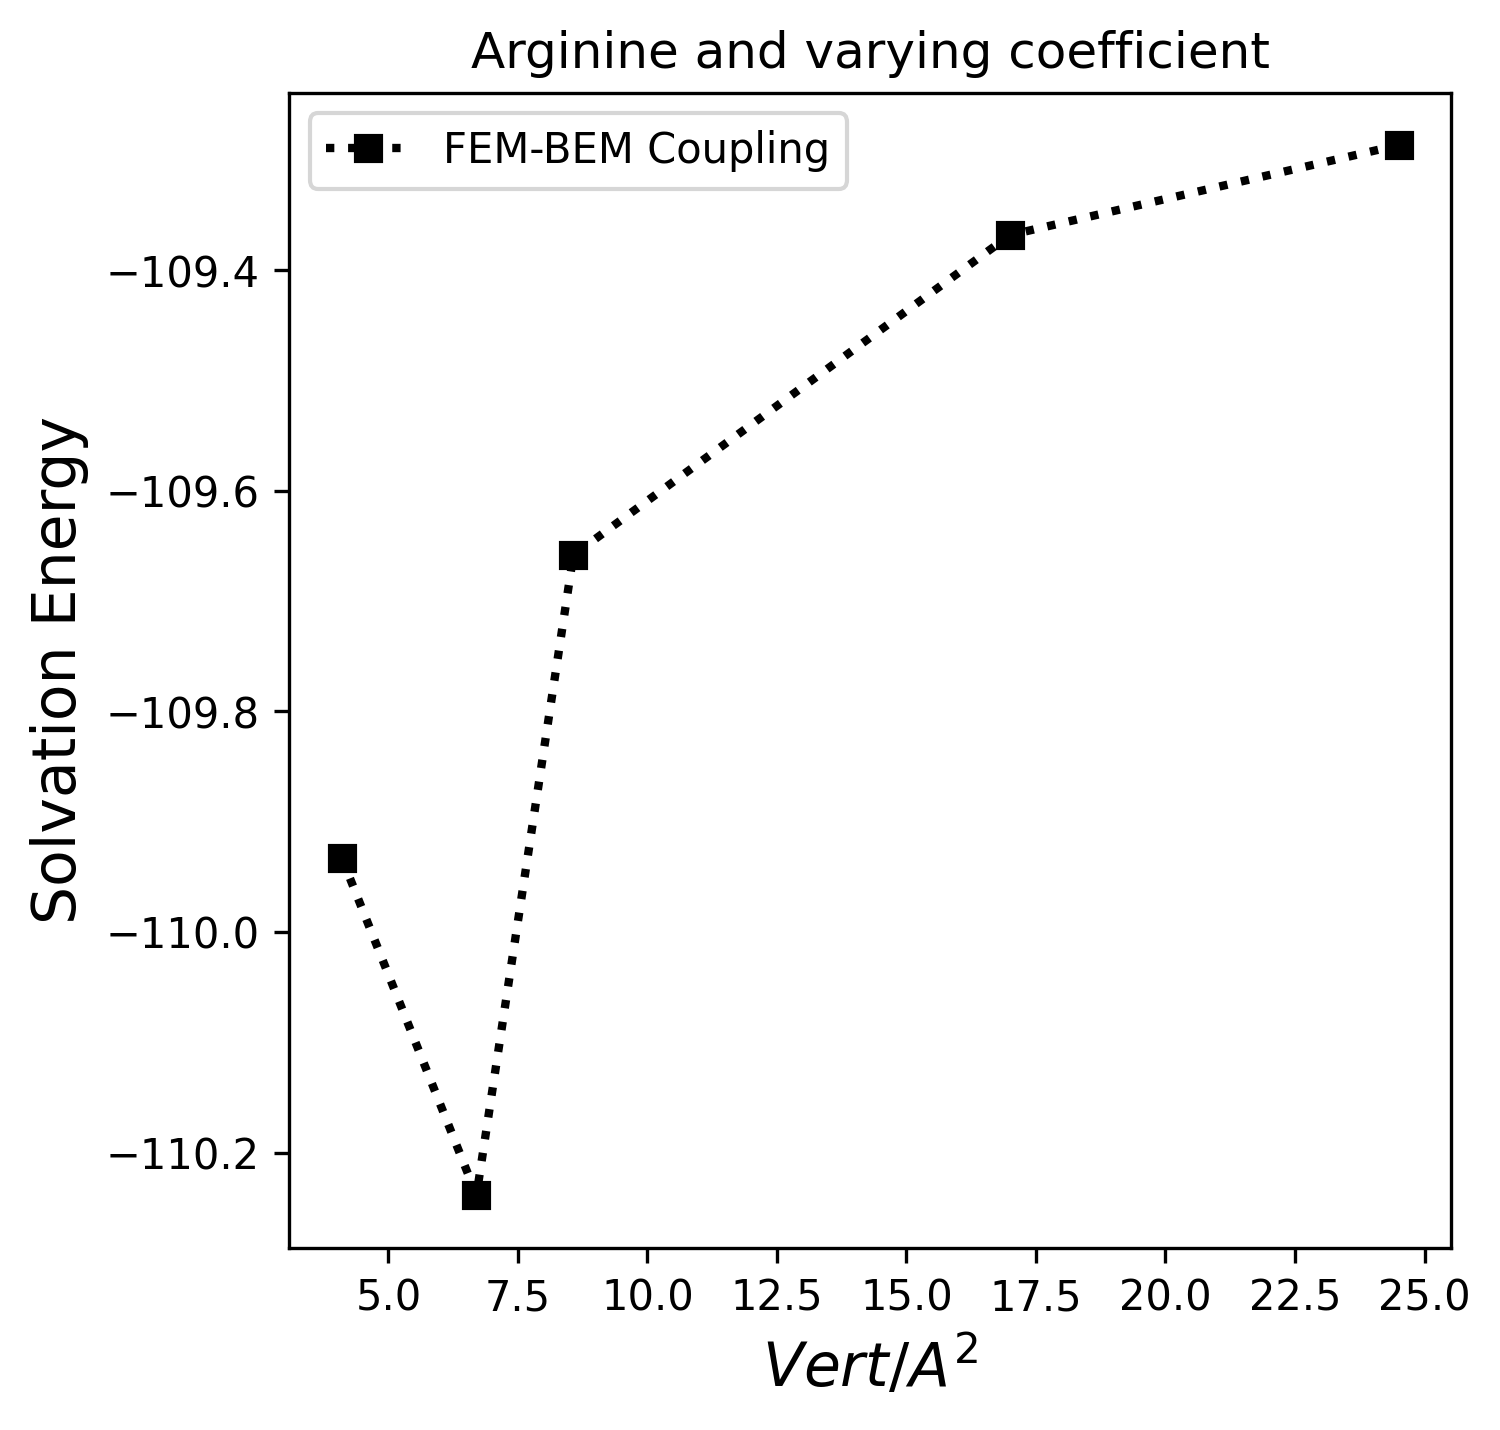
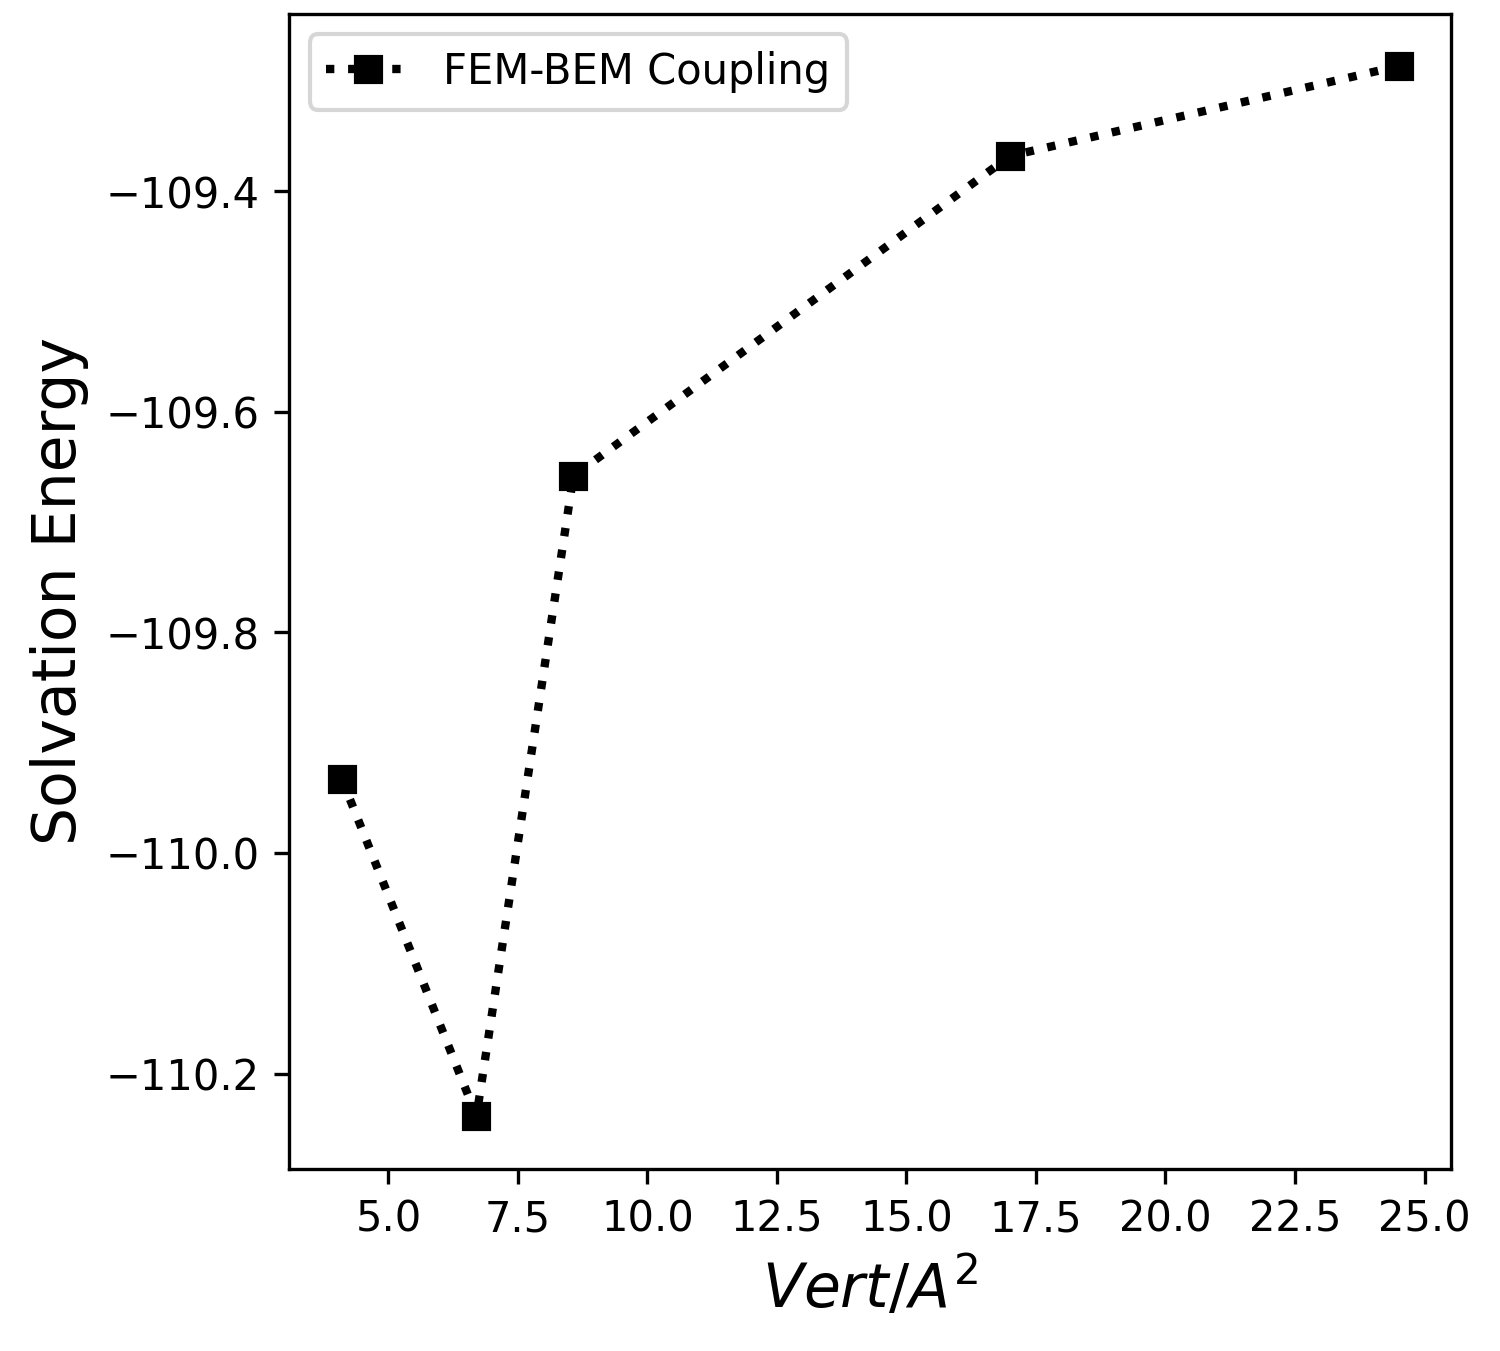
Replies for the comments

diff --git a/results.tex b/results.tex
@@ -37,8 +37,8 @@ The error in Figure \ref{fig:error_sphere} decays linearly with the surface area
 
 \begin{figure}
   \centering
-  \includegraphics[width=0.6\linewidth]{DolfinX_Sphere_const_coeff_error.png}
-  \caption{Error for the Kirkwood sphere. \textcolor{red}{Chris: I would remove the titles from the figs (applies to other figs)}}
+  \includegraphics[width=0.5\linewidth]{DolfinX_Sphere_const_coeff_error.png}
+  \caption{Error for the Kirkwood sphere.}
   \label{fig:error_sphere}
 \end{figure}
 
@@ -51,12 +51,12 @@ These densities correspond to a grid scale parameter in Nanoshaper equal to 1.6,
 The surface meshes were inputs to our purely BEM solver and to create the FEM mesh with pyGAMer,~\cite{lee2020open} which invoked TetGen\cite{hang2015tetgen} with a quality parameter (radius-edge ratio) of 1.0.
 
 The solvation energy computed with the two schemes is presented by Figure \ref{fig:arg_constant_energy}, which, as expected, converges to a similar answer as the mesh is refined.
-Then, Figure \ref{fig:arg2_constant_time_iter} compares the iteration count and time-to-solution. The left plot shows that using only BEM outperforms the coupled FEM-BEM approach in terms of iterations count. However, if we look at the total time that solvers take to obtain the solution, we can see the advantage of using the FEM-BEM coupling. The higher computational cost is caused by the need of using a hypersingular operator in the BEM formulation. \textcolor{red}{Chris: I though BEM-BEM outperformed FEM-BEM in total time. Am I wrong there?}
+Then, Figure \ref{fig:arg2_constant_time_iter} compares the iteration count and time-to-solution. The left plot shows that using only BEM outperforms the coupled FEM-BEM approach in terms of iterations count. However, if we look at the total time that solvers take to obtain the solution, we can see the advantage of using the FEM-BEM coupling. The higher computational cost is caused by the need of using a hypersingular operator in the BEM formulation. \textcolor{red}{Chris: I thought BEM-BEM outperformed FEM-BEM in total time. Am I wrong there?} \textcolor{blue}{Michal: Not for this formulation of BEM-BEM since we have hypersingular operator. But you can see that for denser meshes we should outperform it.} 
 
 
 \begin{figure}
 \centering
-   \includegraphics[width=0.47\linewidth]{DolfinX_Arginine2_const_coeff_error.png}
+   \includegraphics[width=0.5\linewidth]{DolfinX_Arginine2_const_coeff_error.png}
 %   \includegraphics[width=0.47\linewidth]{DolfinX_Arginine_const_coeff_error_11.png}
 \caption{Solvation energy for arginine with a constant permittivity. %(left - Arginine2 and right - Arginine)
 %maybe we could also add a "error" wrt extrapolation, or a plot with energy for each mesh?
@@ -143,8 +143,7 @@ We chose APBS because it provides an easy interface to control dielectric maps, 
 
 Table \ref{table:arg_variable} shows a comparison of solvation energy computed with APBS and our FEM-BEM coupling approach. We can see that they are both converging to equivalent values, where the finest meshes agree up to 0.5\% (0.5 kcal/mol). The coarsest meshes used in both cases are within the recommended densities for accurate solvation energy simulations with constant permittivity. For example, a finite difference mesh with $h$=0.5 \AA~ or less is recommended for binding energy calculations\cite{sorensen2015comprehensive} (the result of substracting two solvation energies), and a similar study with BEM\cite{CooperBardhanBarba2014} showed that a mesh with 2 vertices per \AA$^2$ gives acceptable results when computing binding and solvation energies. We see a jump in the solvation energy for the FEM-BEM results going from 4.1 to 6.7 vertices per \AA$^2$, but later the energy monotonically decreases, converging to a solution. This is an indication that mesh requirements for variable permitivities may be tighter than with a constant permittivity, even though the jump in dielectric constant accross the molecular surface is usually smaller. 
 
-Figure \ref{fig:arg2_variable} contains the performance results of this test case, where we distinguish the iteration count from the calculation in dissolved and vacuum states. \textcolor{red}{Chris: if we don't include Fig. \ref{fig:arg2_variable}, we should remove this paragraph. I believe that if we show performance for fem-bem, a reviewer might be tempted to ask it for APBS too, which might be difficult.}
-
+Figure \ref{fig:arg2_variable} contains the performance results of this test case, where we distinguish the iteration count from the calculation in dissolved and vacuum states. \textcolor{red}{Chris: if we don't include Fig. \ref{fig:arg2_variable}, we should remove this paragraph. I believe that if we show performance for fem-bem, a reviewer might be tempted to ask it for APBS too, which might be difficult.}  \textcolor{blue}{Michal: I completely agree. We were even talking about not putting them, but just for our information, we kept it for now. They weren't going to be in the final version}
 \begin{table}
 \centering
 \begin{tabular}{c|c|c|c}
@@ -207,9 +206,9 @@ coupling    & 8.57  & 8 844 & -109.658 \\
 
 So far, we have only tested the FEM-BEM coupled approach with small structures. Here, we study its behaviour with larger structures to evaluate its applicability in more realistic settings, and  in test cases where BEM-BEM coupling is not an alternative. Using the same Gaussian permittivity field inside the molecule, we computed the solvation free energy of protein G B1 (955 atoms, PDB code 1pgb), lysozyme (1960 atoms, PDB code 1lyz), the barnase-barstar complex (9464 atoms, PDB code 1x1u), and immunoglobulin G (20148 atoms, PDB code 1igt). All structures were parameterized with the Amber\cite{Swanson05} force field using pdb2pqr.\cite{Dolinsky04} The surface was meshed with Nanoshaper\cite{decherchi2013general} considering a grid scale of 1.5, and then used to mesh the solute region with pyGAMer\cite{lee2020open} and TetGen\cite{hang2015tetgen} with a radius-edge ratio of 1.0. Solvation free energy and timings for these runs are presented in Table \ref{table:large_variable}, showing that our FEM-BEM coupling method can reach medium-to-large sized proteins on a workstation. 
 
-Table \ref{table:large_variable} shows that the iteration count increases with the problem size. This is expected for Johnson-N\'ed\'elec, which is the simplest coupling strategy. To isolate the effect of the increased iterations in the analysis, we separate timings in ``setup'' and ``solving'' time, where the ``setup'' time is independent of the number of iterations, and the ``solving'' time corresponds to the time spent in the GMRES solver. Then, the time-per-iteration in table \ref{table:large_variable} only considers the ``solving'' time. Looking at the increase in degrees of freedom, which scales equivalently for FEM and BEM, the ``setup'' time scales slightly worse than $\mathcal{O}(N^2)$, mainly due to the dense nature of the BEM portion of the matrix \textcolor{red}{(check if not using fmm)}. On the other hand, the ``solving time per iteration'' scales closer to $\mathcal{O}(N)$. This is an indication that the high ``solving time'' is mainly due to the increase in iteration count, and having better conditioned coupling methods, such as the so-called hybrid approach,\cite{betcke2022hybrid} can have a large impact in the time to solution.
+Table \ref{table:large_variable} shows that the iteration count increases with the problem size. This is expected for Johnson-N\'ed\'elec, which is the simplest coupling strategy. To isolate the effect of the increased iterations in the analysis, we separate timings in ``setup'' and ``solving'' time, where the ``setup'' time is independent of the number of iterations, and the ``solving'' time corresponds to the time spent in the GMRES solver. Then, the time-per-iteration in table \ref{table:large_variable} only considers the ``solving'' time. Looking at the increase in degrees of freedom, which scales equivalently for FEM and BEM, the ``setup'' time scales slightly worse than $\mathcal{O}(N^2)$, mainly due to the dense nature of the BEM portion of the matrix \textcolor{red}{(check if not using fmm  \textcolor{blue}{we are using FMM})}. On the other hand, the ``solving time per iteration'' scales closer to $\mathcal{O}(N)$. This is an indication that the high ``solving time'' is mainly due to the increase in iteration count, and having better conditioned coupling methods, such as the so-called hybrid approach,\cite{betcke2022hybrid} can have a large impact in the time to solution.
 
-Even though this scheme is capable of calculating the electrostatic potential in medium-to-large proteins, the largest test case in Table \ref{table:large_variable} (1igt) used up most of the available RAM memory (\textcolor{red}{check and rewrite}). If we were aiming at larger structures, such as full viruses,\cite{MartinezETal2019,wang2021high} we would require to improve not only in the conditioning of the system, but also in the choice of fast algorithms\cite{wang2021exafmm,kailasa2023pyexafmm} and parallelization.
+Even though this scheme is capable of calculating the electrostatic potential in medium-to-large proteins, the largest test case in Table \ref{table:large_variable} (1igt) used up most of the available RAM memory (\textcolor{red}{check and rewrite \textcolor{blue}{we are using around 50\% of memory}}). If we were aiming at larger structures, such as full viruses,\cite{MartinezETal2019,wang2021high} we would require to improve not only in the conditioning of the system, but also in the choice of fast algorithms\cite{wang2021exafmm,kailasa2023pyexafmm} and parallelization.
 
 \begin{table}
 \centering
@@ -220,8 +219,8 @@ Molecule & FEM  & BEM &  $\Delta G_{solv}$ & Iterations & Setup Time & Solving T
  1pgb  & 29 434 &  10 058 &  -300.888 & 826 & 82 & 547 & 0.6 & 6 629  \\
  1lyz  & 56 114 & 18 606 &  -599.642 & 1 285 & 330 & 1 640  & 1.2 & 1 970  \\
  %1lyz gs3 & 257 391 & 75 048 &  -600.637 & 2 949  & 1 690 & 10 900 & 3.6 & 12 590   \\
- 1x1u & 263 181 & 81 258 \textcolor{red}{82360} &  -1 984.468 & 4 167 & 8 240 & 16 300 & 3.91 & 24 540  \\
- 1igt & 597 575 & 187 712 \textcolor{red}{189960} &   -3 294.230 & 8 361 & 41 200 & 64 200 & 7.67  &  105 400   \\
+ 1x1u & 263 181 & 81 258 \textcolor{red}{82360} \textcolor{blue}{???}&  -1 984.468 & 4 167 & 8 240 & 16 300 & 3.91 & 24 540  \\
+ 1igt & 597 575 & 187 712 \textcolor{red}{189960}  \textcolor{blue}{???}&   -3 294.230 & 8 361 & 41 200 & 64 200 & 7.67  &  105 400   \\
  \hline
 \end{tabular}}
 \caption{Results for larger structures with a variable permitivitty.}
